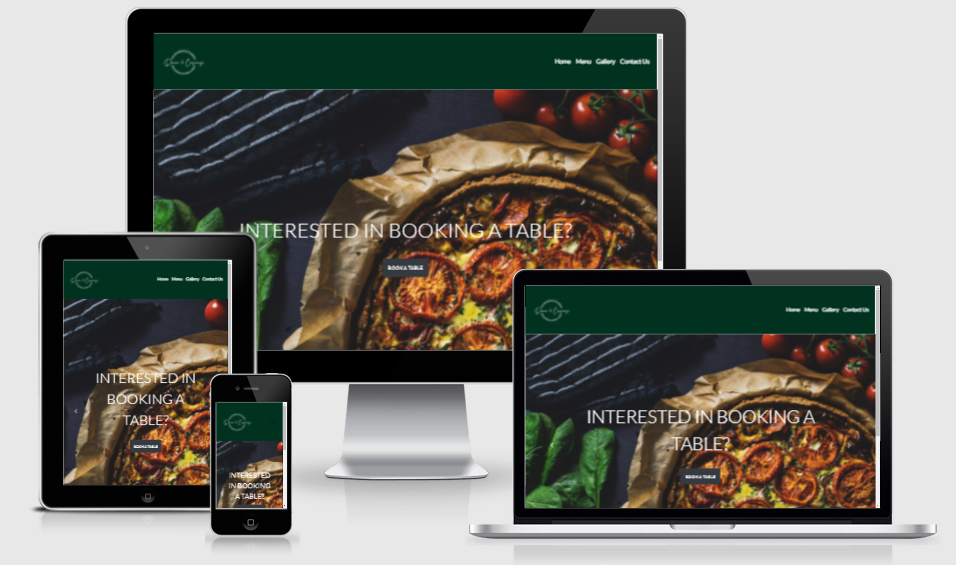
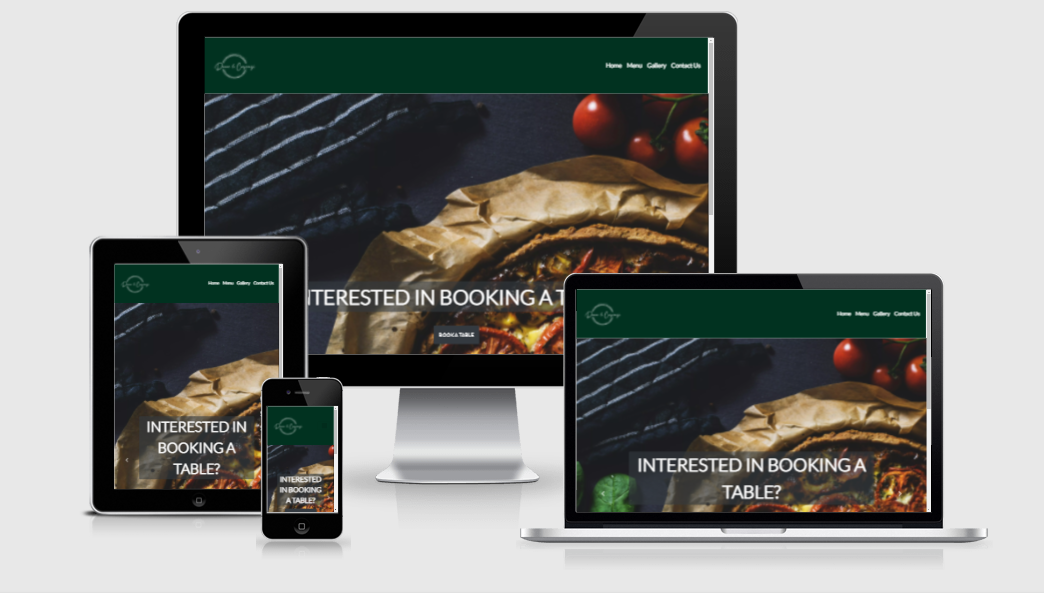
HTML Validation Screenshots from W3

diff --git a/assets/css/style.css b/assets/css/style.css
@@ -73,6 +73,8 @@ h6 {
     background-color: #013220;
 }
 
+
+
 /* Carousel Styling */
 .carousel-item {
     height: 100%;
@@ -149,18 +151,34 @@ h6 {
 /*End of Contact Us Styling*/
 
 /*Footer Styling*/
+
 #section-contact {
     background-color: #013220;
     padding: 20px;
     position: relative;
     width: 100%;
-    bottom: 0px;
+    bottom: 0 !important;
+    color: #ffffff;
 }
+
+#section-contact404 {
+    background-color: #013220;
+    padding: 20px;
+    position: absolute;
+    width: 100%;
+    bottom: 0 !important;
+    color: #ffffff;
+}
+
 
 .whiteIcon{
 	color: white;
 }
-
+/* Start of Navigation Tab color change when clicked */
+.nav-pills .nav-link.active, .nav-pills .show>.nav-link {
+    background-color: #343a40;
+    }
+/* End of Navigation Tab color change when clicked */
 
 /* Start of Images on menu.html*/
 .menuImages {
@@ -196,7 +214,7 @@ iframe {
     padding: 0 4px;
   }
   
-/* Create four equal columns that sits next to each other */
+/* Start of Create four equal columns that sits next to each other */
 .column {
     flex: 25%;
     max-width: 33.3%;
@@ -212,7 +230,8 @@ iframe {
     border-style: solid;
     border-color: #013220;
   }
-  
+/* End of Create four equal columns that sits next to each other */
+
 /* Extra small devices (phones, 600px and down) */
 /* Responsive layout - makes the two columns stack on top of each other instead of next to each other */
 @media only screen and (max-width: 600px) {
@@ -228,8 +247,7 @@ iframe {
 .carousel-item img {
     height: 100vh;
     object-fit: cover;
-}
-
+    }
 }
   
 /* Small devices (portrait tablets and large phones, 600px and up) */
@@ -237,7 +255,7 @@ iframe {
 .carousel-item img {
     height: 120vh;
     object-fit: cover;
-}
+    }
 }
   
 /* Medium devices (landscape tablets, 768px and up) */
@@ -245,7 +263,7 @@ iframe {
 .carousel-item img {
     height: 140vh !important;
     object-fit: cover;
-}
+    }
 } 
 
 /* Large devices (laptops/desktops, 992px and up) */
@@ -253,24 +271,15 @@ iframe {
 .carousel-item img {
     height: 150vh;
     object-fit: cover;
-}
+    }
 } 
 
 /* Extra large devices (large laptops and desktops, 1200px and up) */
 @media only screen and (min-width: 1200px) {
 .carousel-item img {
-    height: 160vh;
+    height: 150vh;
     object-fit: cover;
+    }
 }
-}
-
 
 /* End of Images in event.hmtl */
-
-#section-contact, .fab{
-color: #ffffff;
-}
-
-.nav-pills .nav-link.active, .nav-pills .show>.nav-link {
-background-color: #343a40;
-}

diff --git a/404.html b/404.html
@@ -61,7 +61,7 @@
 <!--End of 404 Message-->
 
 <!--Start of Footer-->
-    <section id="section-contact">
+    <section id="section-contact404">
         <div class="container-fluid">
             <div class="row">
             <div class="col-md-4 text-center">

diff --git a/README.md b/README.md
@@ -162,7 +162,7 @@ This website consists of 4 pages.
 - In the middle of the image is a Call To Action named "Book a Table" which once clicked navigates to the contact us page where the user is able to book a table using the form.
 
 ![Carousel CTA Button](docs/features-carousel-cta-button.png)
-(docs/features-carousel-prev-next-buttons.png)
+![Carousel Showcase Prev and Next Buttons](docs/features-carousel-prev-next-buttons.png)
 
 #### Menu and Menu Tabs
 
@@ -195,7 +195,29 @@ This website consists of 4 pages.
     
 ### Validation
 
+#### HTML Validation
 
+The <a href="https://validator.w3.org/">W3 Markup Validation Service</a> was used to validate the HTML of the site. Shown below are screenshots of the validation.
+
+<details>
+<summary>Home</summary>
+<img src="docs/html-validation-index.png">
+</details>
+<details>
+<summary>Menu</summary>
+<img src="docs/html-validation-menu.png">
+</details>
+<details>
+<summary>Gallery</summary>
+<img src="docs/html-validation-gallery.png">
+</details>
+<details>
+<summary>Contact Us</summary>
+<img src="docs/html-validation-contact-us.png">
+</details>
+<summary>404</summary>
+<img src="docs/html-validation-404.png">
+</details>
 
 
 
